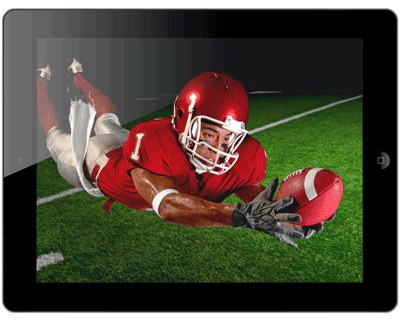
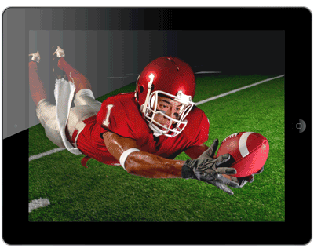
resize images on home page. associate pawn steps with graphic above

diff --git a/app/assets/stylesheets/caredes/resources/_custom_settings.css.scss b/app/assets/stylesheets/caredes/resources/_custom_settings.css.scss
@@ -11,7 +11,8 @@ $light-link-hover:  #ccc;
 $dark-link-color:   #005daa;
 $dark-link-hover:   #005daa;
 
-$primary-ca:        #005daa;
+//$primary-ca:        #005daa;
+$primary-ca:        #07467f;
 $secondary-ca:      #D0103A;
 $selected-ca:       #e0e9f1;
 

diff --git a/app/assets/stylesheets/caredes/modules/_home.css.scss b/app/assets/stylesheets/caredes/modules/_home.css.scss
@@ -67,6 +67,12 @@
         }
     }
 
+    .home-steps{
+        background-color: $primary-ca;
+        padding-top: $line-height-computed;
+        color: $white;
+    }
+
     .circle{
         background-color: white;
         border-radius: 50px;
